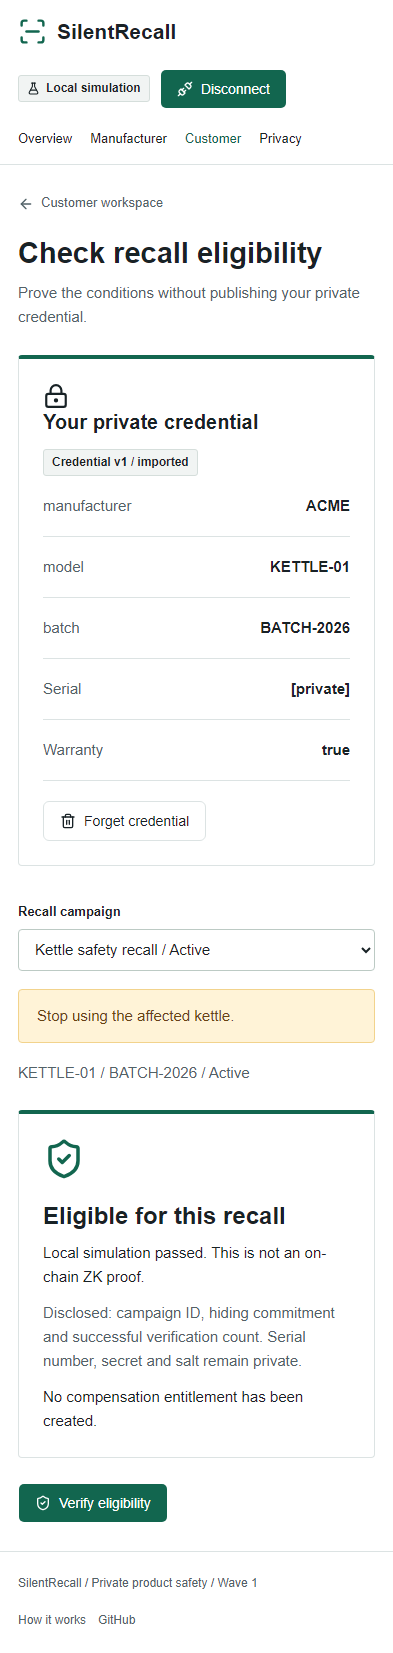
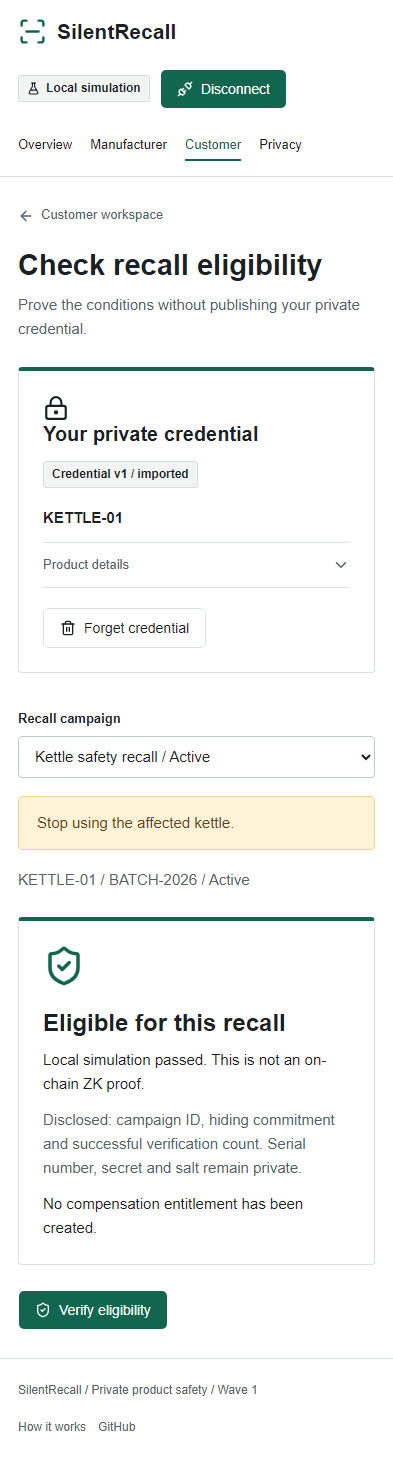
docs: refresh Wave 1 UI evidence and clarify per-wave progress

Changed region(s): [[0.0305, 0.0, 0.9771, 0.9863], [0.6412, 0.339, 0.8855, 0.4623], [0.7939, 0.2774, 0.8855, 0.3082]]

diff --git a/docs/testing.md b/docs/testing.md
@@ -7,20 +7,20 @@
 | 26 Compact circuit tests  | Generated contract authority, registration, campaign transitions, private predicates and time boundaries           |
 | TypeScript / React tests  | Strict schemas, entropy/encoding/masking, public projections, witness cleanup, wallet v4, forms and session states |
 | Real local-network runner | Actual deployment, proof generation, transaction balancing/submission, indexer confirmation and rejection paths    |
-| 18 Playwright tests       | Six independent journeys on Chromium, Pixel 7 mobile Chrome and Firefox, including axe scans                       |
+| 21 Playwright tests       | Seven independent journeys on Chromium, Pixel 7 mobile Chrome and Firefox, including axe scans                     |
 
 There are **67 passing Vitest tests across 16 files**, including the 26 contract tests. No skipped or exclusive tests are committed. Playwright uses the compiled-contract development gateway, not a network wallet; **Playwright itself does not validate ZK cryptography**.
 
 ## Coverage
 
-Measured with Vitest V8 on 8 September 2026:
+Measured with Vitest V8 on 9 September 2026:
 
 | Metric                                                  | Result     |
 | ------------------------------------------------------- | ---------- |
-| Overall lines                                           | 87.46%     |
-| Statements                                              | 86.27%     |
-| Functions                                               | 88.46%     |
-| Branches                                                | 77.06%     |
+| Overall lines                                           | 87.50%     |
+| Statements                                              | 86.31%     |
+| Functions                                               | 88.54%     |
+| Branches                                                | 77.53%     |
 | Domain validation and cryptographic utilities           | 100% lines |
 | Real contract gateway, private state and public mapping | 100% lines |
 | Wallet connector and provider adapter                   | 100% lines |
@@ -56,7 +56,9 @@ Its checks: deployment, authority initialization, commitment registration, index
 
 ## Browser and Visual Evidence
 
-All 18 tests passed locally without retries. Each browser context starts from an independent in-memory contract. One worker avoids concurrent on-demand Next.js compilation resetting another test's development session. Do not edit source while running browser tests. Failure traces, videos and screenshots go to ignored artifact directories.
+All 21 tests passed locally without retries. Each browser context starts from an independent in-memory contract. One worker avoids concurrent on-demand Next.js compilation resetting another test's development session. Do not edit source while running browser tests. Failure traces, videos and screenshots go to ignored artifact directories.
+
+The Wave 1 UI refinement checks cover reduced-motion preferences, keyboard-operated credential details and dismissible notifications. Browser automation uses the installed Playwright runner because the Browser plugin is unavailable. Contract code is unchanged; recorded proof evidence remains from 8 September rather than a new network run.
 
 Major-page axe scans include overview, manufacturer, customer, privacy and docs. Layout checks include 320px width. The critical issuance/import/proof/close journeys run on desktop and mobile. Privacy assertions verify no serial/secret/salt in rendered text, URLs or console output, and no localStorage/sessionStorage credential persistence.
 

diff --git a/README.md b/README.md
@@ -10,7 +10,7 @@
 
 Recalls should not require publishing a customer's identity, receipt or product serial. SilentRecall lets a product owner prove that a manufacturer-registered private credential satisfies a public recall's conditions.
 
-**Wave 1 complete — 30% of the full SilentRecall roadmap.** Wave 2 and Wave 3 are not implemented. This is experimental software, not an audited compensation system. See [verification evidence](docs/testing.md).
+**Wave 1 complete, with ongoing UI improvements.** Progress is tracked independently for each wave; Wave 2 and Wave 3 have not started. This is experimental software, not an audited compensation system. See [verification evidence](docs/testing.md).
 
 ![Manufacturer workspace](docs/assets/manufacturer-desktop.png)
 ![Private eligibility result](docs/assets/eligible-desktop.png)

diff --git a/docs/wave-roadmap.md b/docs/wave-roadmap.md
@@ -12,4 +12,4 @@
 
 **0% implemented.** Revocation, private ownership transfer, anonymous notifications, selective auditor disclosure and repair-center workflows are future work.
 
-Wave 1 complete — 30% of the full SilentRecall roadmap. This is not a production-ready compensation system.
+Progress is tracked independently: Wave 1 is complete and receiving UI improvements; Wave 2 and Wave 3 remain at 0%. This is not a production-ready compensation system.
